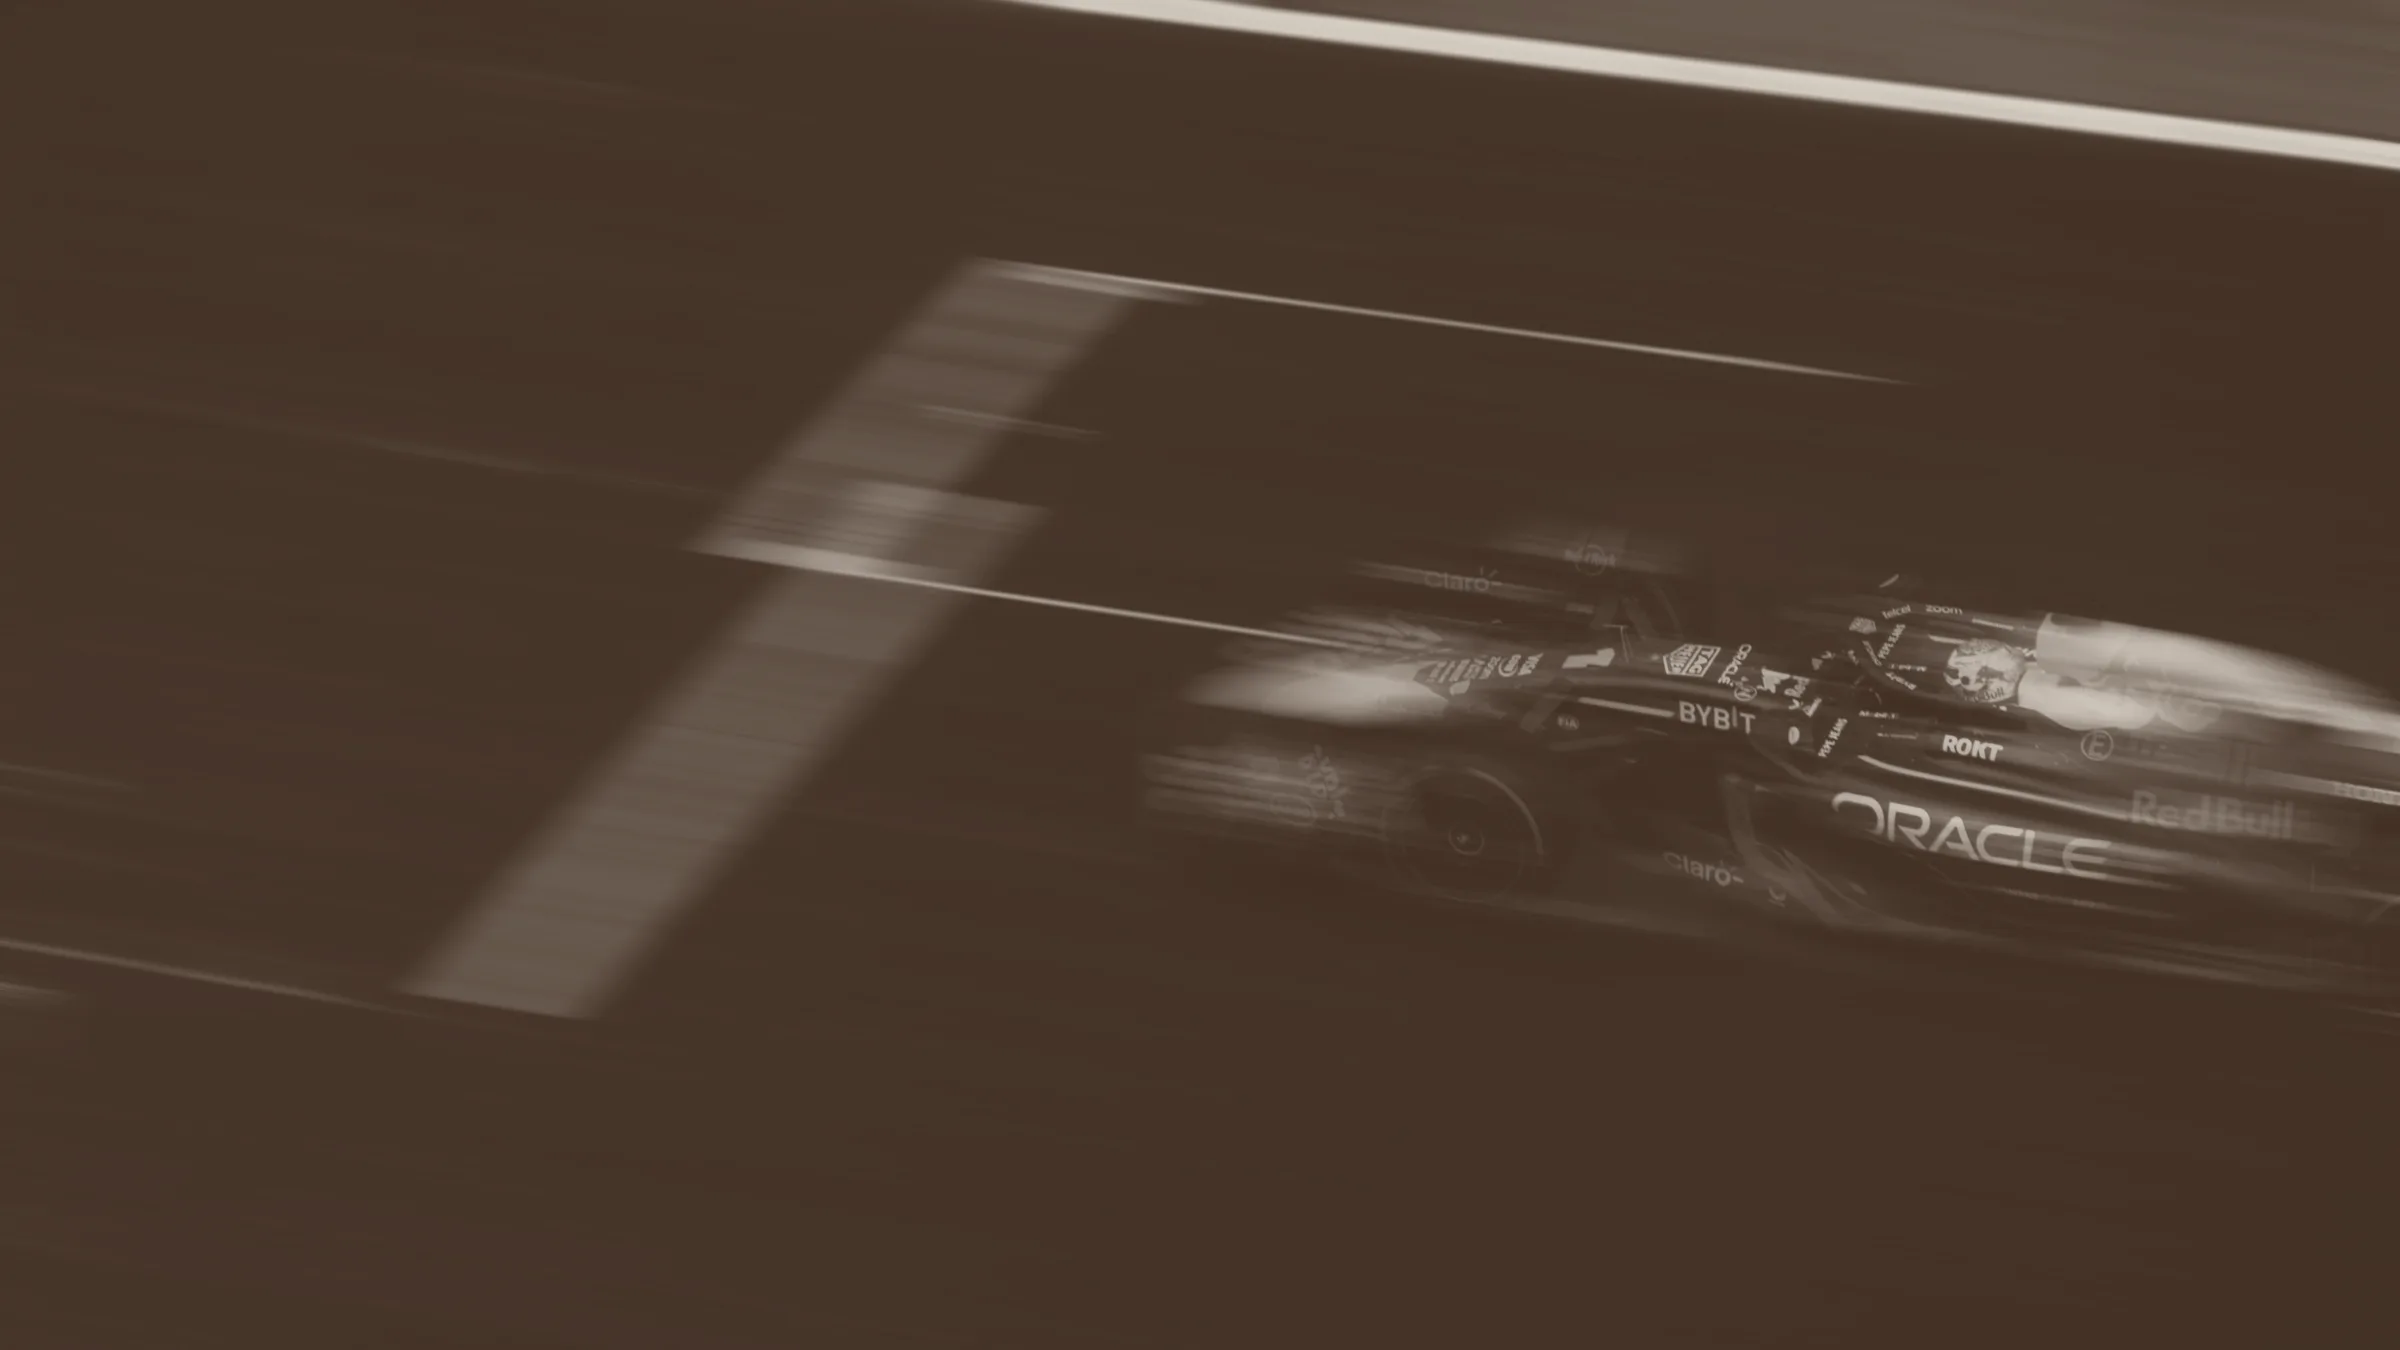
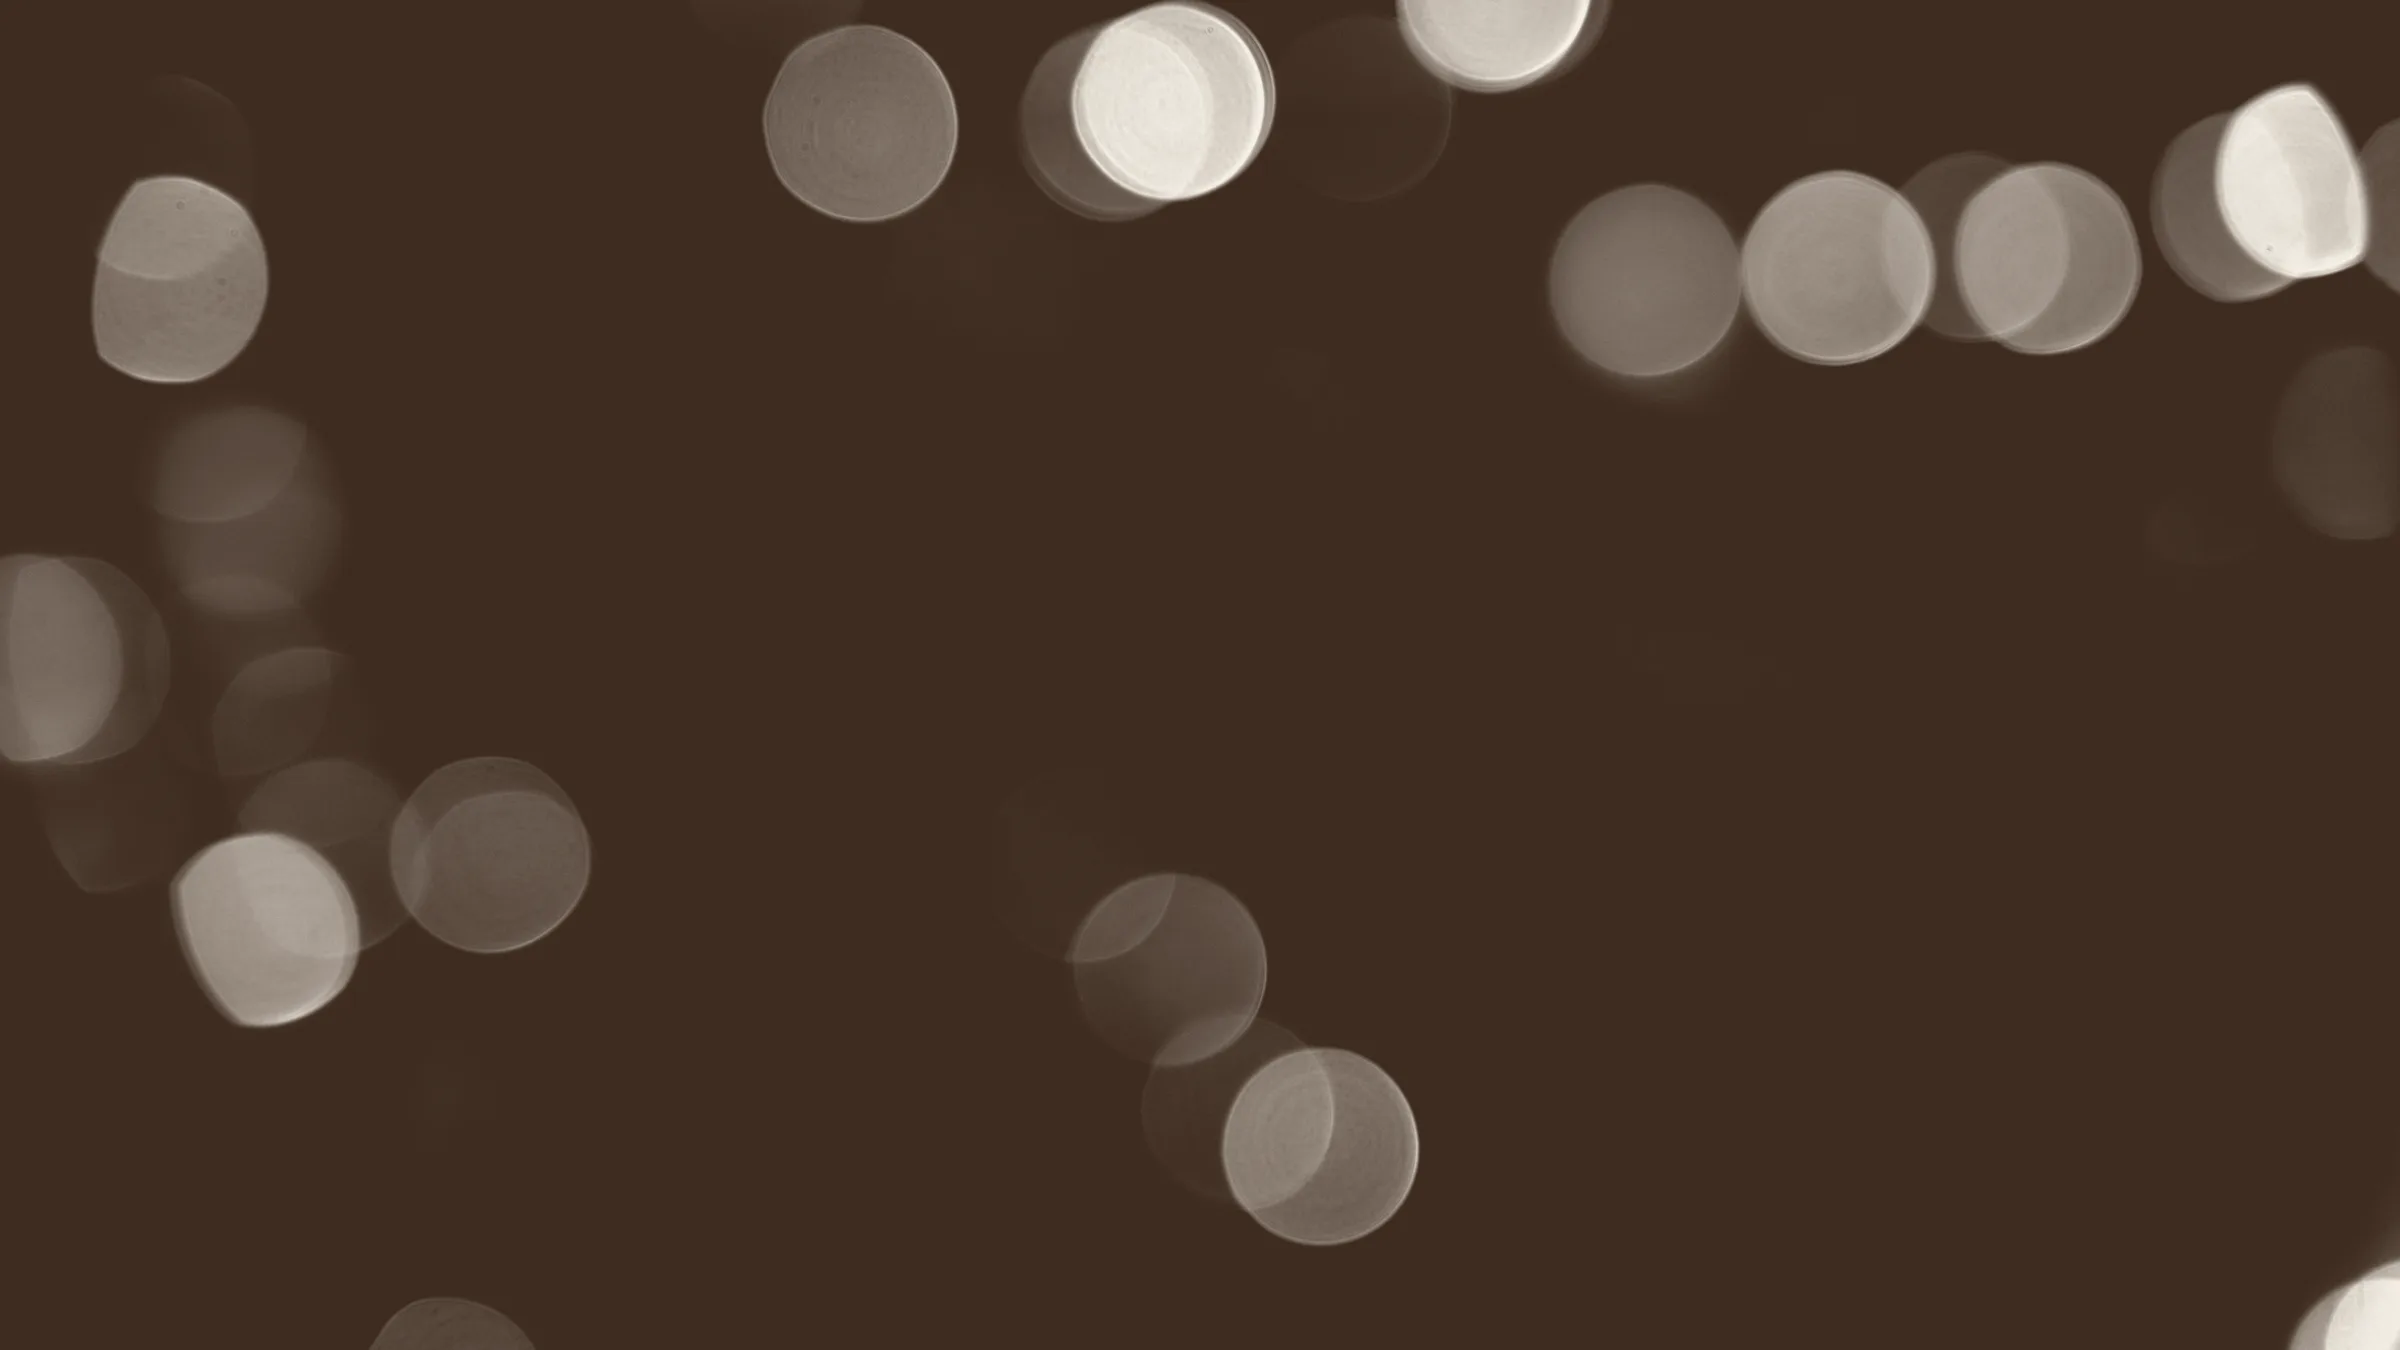
fix(ferrari): backdrop senza auto — rimosse immagini di auto competitor
bg-track-night mostrava un'auto F1 di un competitor (livrea BYBIT) — non
ammissibile su una experience Ferrari. Riqueryati bg-track-night, bg-pit e
bg-grid con immagini ASTRATTE e car-free (bokeh di luci, scie luminose,
texture d'asfalto) e rigenerati via pipeline Pexels. Verificato: cover, journey
e GenStudio non mostrano alcuna auto.

diff --git a/apps/ferrari-racing/assets.manifest.ts b/apps/ferrari-racing/assets.manifest.ts
@@ -7,10 +7,12 @@ import type { AssetSlot } from '@edf/core/assets/types';
  */
 export const assets: AssetSlot[] = [
   // ── Backgrounds ───────────────────────────────────────────────────
-  { id: 'bg-track-night', type: 'stock', query: 'formula one race track night grandstand lights long exposure motion', aspect: '16:9', width: 2400, grade: 'duotone', alt: '' },
+  // Abstract, CAR-FREE atmospherics (Pexels motorsport photos often show
+  // non-Ferrari/competitor cars — never depict an identifiable car here).
+  { id: 'bg-track-night', type: 'stock', query: 'stadium floodlights night bokeh blur dark abstract lights', aspect: '16:9', width: 2400, grade: 'duotone', alt: '' },
   { id: 'bg-carbon', type: 'stock', query: 'carbon fiber texture dark macro weave black minimal', aspect: '16:9', width: 2400, grade: 'duotone', alt: '' },
-  { id: 'bg-pit', type: 'stock', query: 'motorsport pit lane garage mechanics telemetry screens dark', aspect: '16:9', width: 2400, grade: 'editorial', alt: '' },
-  { id: 'bg-grid', type: 'stock', query: 'motorsport starting grid asphalt tire marks aerial abstract', aspect: '16:9', width: 2400, grade: 'duotone', alt: '' },
+  { id: 'bg-pit', type: 'stock', query: 'dark red glowing light streaks motion abstract technology', aspect: '16:9', width: 2400, grade: 'editorial', alt: '' },
+  { id: 'bg-grid', type: 'stock', query: 'asphalt tarmac texture dark aerial abstract pattern road', aspect: '16:9', width: 2400, grade: 'duotone', alt: '' },
   // ── Story imagery ─────────────────────────────────────────────────
   { id: 'tifosi', type: 'stock', query: 'motorsport fans grandstand crowd red flags celebration passion', aspect: '16:9', width: 2400, grade: 'editorial', alt: 'Passionate motorsport fans in the grandstand' },
   { id: 'podium', type: 'stock', query: 'motorsport podium celebration champagne trophy crowd', aspect: '16:9', width: 2400, grade: 'editorial', alt: 'Podium celebration' },